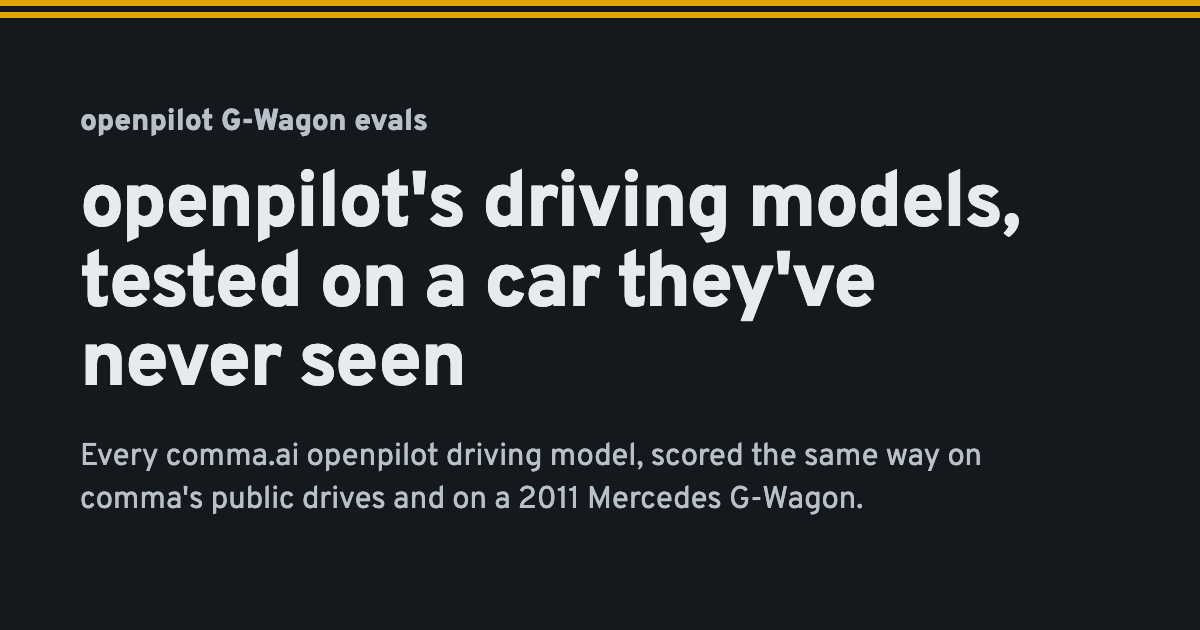
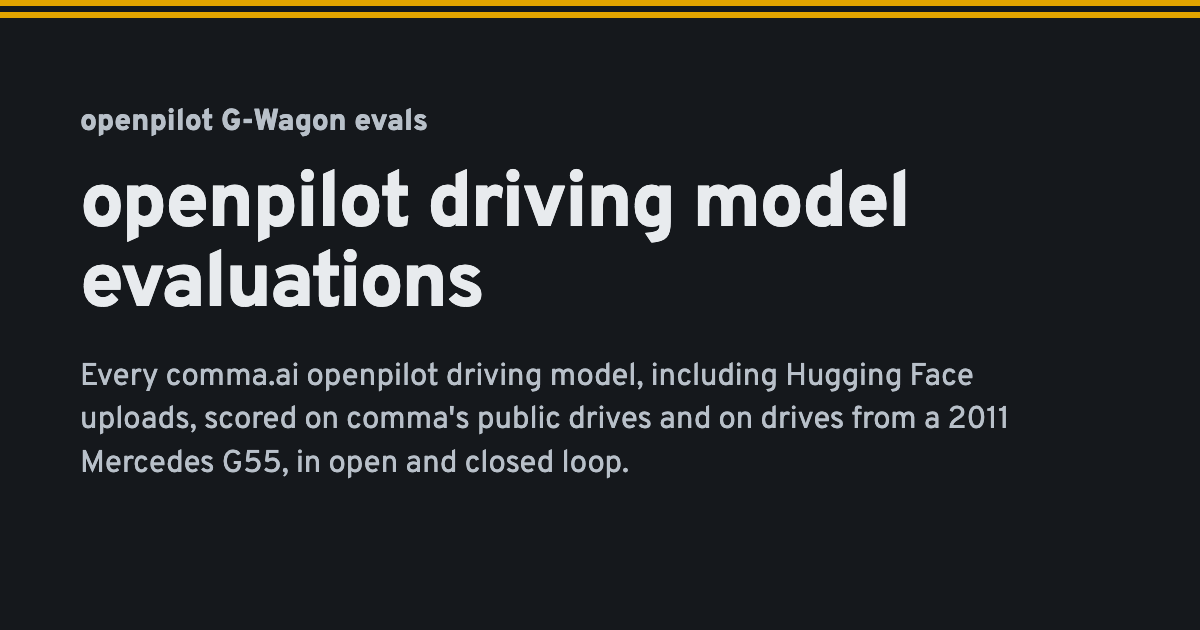
eval site: literal copy, measurements and numbers only
Title 'openpilot driving model evaluations'; the line under it states which models, on what data,
which tests and how often. Findings and per-model lines name the metric and the number (lateral
action rate, lateral lag, lateral error, longitudinal error, distance from path) with their unit
counts, no adjectives. The G55 is described by facts (W463, recirculating-ball steering, camera
1.45 m up, not supported by openpilot). Method page: the residual's effect stated as the deep
dive's measured numbers. Open Graph card re-rendered.

Changed region(s): [[0.0617, 0.5429, 0.8325, 0.8143], [0.0617, 0.2714, 0.8633, 0.5127]]

diff --git a/eval/site/pages/method.html b/eval/site/pages/method.html
@@ -26,7 +26,7 @@ drives stay private, so only their scores are published.</p>
 <td>Speed and lateral error against what the truck did, and lateral gain: the model's lateral action over the truck's actual lateral motion, where 1 is right.</td></tr>
 <tr><th scope="row">Truck, closed loop</th>
 <td>The truck windows, run through <code>worldmodel-4B</code> with the G55's measured steering response in place of the ideal car.</td>
-<td>Distance from the driven path at 2, 4 and 7.2 s, and how smooth the requested steering is. 18 windows from four drives,
+<td>Distance from the driven path at 2, 4 and 7.2 s, and the RMS lateral and longitudinal jerk of the requests. 18 windows from four drives,
 9 by day and 9 at night.</td></tr>
 <tr><th scope="row">Truck, recovery tests</th>
 <td>Closed loop after a disturbance: pushed 0.5 m sideways, or turned 2° off heading. A test behind a braking lead car is
@@ -55,8 +55,8 @@ fraction beside it counts the units where the model did better.</p>
 models; a dash means there is no interval. Each page shows dozens of these comparisons with no correction for multiple
 tests, so a delta whose interval only just excludes zero is weak evidence. Where one segment dominates a mean, the
 median beside it shows it.</p>
-<p>Two measures need care. The steering delay is the shift, searched from 0 to 1.5 s, at which the model's steering
-request best matches the car's own turning; a value at either end of the search is only a bound and is left out, so its
+<p>Two measures need care. The lateral lag is the shift, searched from 0 to 1.5 s, at which the model's lateral
+request best correlates with the car's measured lateral motion; a value at either end of the search is only a bound and is left out, so its
 count can be below the section's. The plan speed error at 3 s reads the model's plan output, which does not separate
 models built on one frozen base: it is identical for the four October models on base <code>f22e06e5</code>.</p>
 <p>Every public interval can be recomputed from the per-segment CSVs: <code>uv run python -m geval.reproduce</code> in
@@ -68,12 +68,13 @@ models built on one frozen base: it is identical for the four October models on 
 <p>Open loop asks whether the model's output matches what a human did on a recorded drive. The output never changes the
 next frame, so a model can copy the human closely and still drift once its own steering moves the car. Closed loop feeds
 the steering back through a world model, and small errors build up.</p>
-<p>The October 2026 runs show the two disagreeing. comma's recent models are a frozen base policy with a residual head
+<p>Measured in the 2026-10-27 deep dive, the two disagree. comma's recent models are a frozen base policy with a residual head
 trained by reinforcement learning on top. With the residual switched off, the base had the lowest open-loop lateral error
 of any model on comma's public segments (0.074 m/s², against lebowski's 0.109). In the first closed-loop run on nine truck
 windows (before the current eighteen), after a small yaw disturbance, the same base ended about 1.8 m from the driven path at 4 s. lebowski ended 0.4 m away, and
-a policy that does not steer at all 2.3 m. The residual smooths the action and delays it by a few tenths of a second.
-Open-loop scoring counts that delay as error, yet the residual is what lets these models hold a lane.</p>
+a policy that does not steer at all 2.3 m; the same models with their residual ended 1.2 to 1.3 m closer to the path than
+their base alone, in 9 of 9 windows. On comma's public segments the residual lowers the lateral action rate by 33 to 40%
+and moves the best-correlating lateral lag by +0.17 to +0.32 s; open-loop scoring counts that shift as error.</p>
 <p>This matches published work: on the nuPlan benchmark, open-loop and closed-loop planning scores were negatively
 correlated (<a href="https://doi.org/10.48550/arxiv.2306.07962">Dauner et al., 2023</a>). The site reports both kinds of
 score side by side and does not combine them.</p>

diff --git a/eval/site/og/og.html b/eval/site/og/og.html
@@ -14,6 +14,6 @@ p { font-size: 31px; line-height: 1.4; color: #b8c0c9; margin: 0; max-width: 100
 </style></head>
 <body><div class="line"></div><div class="in">
 <div class="site">openpilot G-Wagon evals</div>
-<h1>openpilot's driving models, tested on a car they've never seen</h1>
-<p>Every comma.ai openpilot driving model, scored the same way on comma's public drives and on a 2011 Mercedes G-Wagon.</p>
+<h1>openpilot driving model evaluations</h1>
+<p>Every comma.ai openpilot driving model, including Hugging Face uploads, scored on comma's public drives and on drives from a 2011 Mercedes G55, in open and closed loop.</p>
 </div></body></html>

diff --git a/eval/site/build.py b/eval/site/build.py
@@ -29,9 +29,9 @@ EVAL = SITE.parent
 SECTIONS = {
     "public_open_loop": "comma's public drives, open loop",
     "public_closed_loop": "comma's public drives, closed loop",
-    "truck_open_loop": "G-Wagon, open loop",
-    "truck_closed_loop": "G-Wagon, closed loop",
-    "truck_recovery": "G-Wagon, recovery tests",
+    "truck_open_loop": "G55, open loop",
+    "truck_closed_loop": "G55, closed loop",
+    "truck_recovery": "G55, recovery tests",
 }
 UNIT_WORD = {"segment": ("segment", "segments"), "window": ("window", "windows")}
 BETTER_TEXT = {"lower": "lower is better", "higher": "higher is better",
@@ -39,22 +39,18 @@ BETTER_TEXT = {"lower": "lower is better", "higher": "higher is better",
 MINUS = "−"
 # The three numbers every model has, in plain words (public open loop; lower is better on all three).
 KEY_METRICS = [
-    ("public_open_loop", "lat_rate_rms", "Steering roughness", "How fast the steering request changes (RMS)"),
-    ("public_open_loop", "lat_best_lag", "Steering delay", "How far the steering trails the car's own turning"),
-    ("public_open_loop", "lat_mae", "Tracking error", "Steering request against what the car did next"),
+    ("public_open_loop", "lat_rate_rms", "Lateral action rate", "RMS rate of change of the lateral request"),
+    ("public_open_loop", "lat_best_lag", "Lateral lag", "Shift at which the request best matches the car's turning"),
+    ("public_open_loop", "lat_mae", "Lateral error", "Request against the car's lateral motion that followed"),
 ]
 MORE_METRICS = [
-    ("public_closed_loop", "xtrack_4s", "Off the path in the world model, 4 s", "Median over segments, comma's ideal car"),
-    ("truck_closed_loop", "xtrack_4s", "G-Wagon off the path, 4 s", "Median over windows, G55 steering"),
-    ("truck_recovery", "offcentre_xtrack_4s", "G-Wagon after a 0.5 m push, 4 s", "Median over windows"),
+    ("public_closed_loop", "xtrack_4s", "Distance from path at 4 s, closed loop", "Median over segments, comma's ideal car"),
+    ("truck_closed_loop", "xtrack_4s", "G55 distance from path at 4 s", "Median over windows, G55 steering model"),
+    ("truck_recovery", "offcentre_xtrack_4s", "G55 at 4 s after a 0.5 m offset", "Median over windows"),
 ]
 # Plain names for the per-model verdict line: (better, worse).
-TERMS = {
-    "lat_rate_rms": ("smoother steering", "rougher steering"),
-    "lat_best_lag": ("less steering delay", "more steering delay"),
-    "lat_mae": ("lower tracking error", "higher tracking error"),
-    "lon_mae": ("lower acceleration error", "higher acceleration error"),
-}
+TERMS = {"lat_rate_rms": "lateral action rate", "lat_best_lag": "lateral lag", "lat_mae": "lateral error",
+         "lon_mae": "longitudinal error"}
 
 
 def esc(x) -> str:
@@ -304,7 +300,7 @@ def page(cfg: dict, title: str, desc: str, body: str, depth: int, current: str, 
 <meta property="og:image" content="{esc(og)}">
 <meta property="og:image:width" content="1200">
 <meta property="og:image:height" content="630">
-<meta property="og:image:alt" content="openpilot's driving models, tested on a car they've never seen">
+<meta property="og:image:alt" content="openpilot driving model evaluations">
 <meta name="twitter:card" content="summary_large_image">
 <meta name="twitter:title" content="{esc(title)}">
 <meta name="twitter:description" content="{esc(desc)}">
@@ -340,7 +336,7 @@ def page(cfg: dict, title: str, desc: str, body: str, depth: int, current: str, 
 # ---------------------------------------------------------------- the hero chart
 
 def hero_chart(models: list[dict], cfg: dict) -> str:
-    """Steering delay (x) against steering roughness (y), one dot per model, public open loop.
+    """Lateral lag (x) against lateral action rate (y), one dot per model, public open loop.
     Lower-left is better on both. The reference and the models config.json names are labelled."""
     ref = cfg["reference_model"]
     hl = cfg.get("hero", {}).get("highlight", [])  # [[model id, css class, label, "left" or "right"], ...]
@@ -372,10 +368,10 @@ def hero_chart(models: list[dict], cfg: dict) -> str:
                  f'<text class="tick" x="{L - 8}" y="{Y + 4:.1f}" text-anchor="end">{t:.1f}</text>')
         t += 0.1
     g.append(f'<text class="axis" x="{(L + W - R) / 2:.0f}" y="{H - 14}" text-anchor="middle">'
-             'Steering delay behind the car\'s own turning (s)</text>')
+             'Lateral lag (s)</text>')
     g.append(f'<text class="axis" transform="translate(16 {(T + H - B) / 2:.0f}) rotate(-90)" text-anchor="middle">'
-             'Steering roughness (m/s³)</text>')
-    g.append(f'<text class="better" x="{L + 10}" y="{H - B - 12}">Better: lower and further left</text>')
+             'Lateral action rate, RMS (m/s³)</text>')
+    g.append(f'<text class="better" x="{L + 10}" y="{H - B - 12}">Lower is better on both axes</text>')
     style = {h[0]: (h[1], h[2]) for h in hl}
     pos = {}
     dots, labels = [], []
@@ -384,8 +380,8 @@ def hero_chart(models: list[dict], cfg: dict) -> str:
         X, Y = px(x["value"]), py(y["value"])
         pos[mid] = (X, Y)
         cls = style.get(mid, ("other", None))[0]
-        tip = (f'{plain_name(m)}: delay {num(x["value"], 2)} s over {x["n"]} segments, '
-               f'roughness {num(y["value"], 2)} m/s³ over {y["n"]} segments')
+        tip = (f'{plain_name(m)}: lateral lag {num(x["value"], 2)} s over {x["n"]} segments, '
+               f'lateral action rate {num(y["value"], 2)} m/s³ over {y["n"]} segments')
         r = 7 if cls != "other" else 5.5
         dots.append(f'<circle class="dot d-{cls}" cx="{X:.1f}" cy="{Y:.1f}" r="{r}" tabindex="0" '
                     f'data-tip="{esc(tip)}" aria-label="{esc(tip)}"/>')
@@ -411,12 +407,12 @@ def hero_chart(models: list[dict], cfg: dict) -> str:
     return f"""<figure class="hero-fig">
 <p class="fig-t">{esc(cfg.get("hero", {}).get("title", ""))}</p>
 <div class="legend-row">{legend}</div>
-<svg class="scatter" viewBox="0 0 {W} {H}" role="img" aria-label="Scatter of steering delay against steering roughness for each scored model">
+<svg class="scatter" viewBox="0 0 {W} {H}" role="img" aria-label="Scatter of lateral lag against lateral action rate for each scored model">
 <defs><marker id="ah" viewBox="0 0 10 10" refX="8" refY="5" markerWidth="7" markerHeight="7" orient="auto-start-reverse"><path d="M0,0 L10,5 L0,10 z" class="ah"/></marker></defs>
 {''.join(g)}{arrow}{''.join(dots)}{''.join(labels)}
 </svg>
-<figcaption>Each dot is one comma model, scored on the same {n} public drive segments. Steering delay is the shift at which the model's steering request best matches the car's own turning; roughness is how fast that request changes.
-<details><summary>Numbers behind the chart</summary><div class="tw"><table><thead><tr><th scope="col">Model</th><th class="n" scope="col">Delay (s)</th><th class="n" scope="col">Roughness (m/s³)</th></tr></thead><tbody>{rows}</tbody></table></div></details>
+<figcaption>One dot per model; means over comma's public segments, open loop ({n} with movement; lag excludes values at the 0 and 1.5 s search limits). Lateral lag: the time shift at which the model's lateral request best correlates with the car's measured lateral motion. Lateral action rate: RMS rate of change of that request.
+<details><summary>Numbers behind the chart</summary><div class="tw"><table><thead><tr><th scope="col">Model</th><th class="n" scope="col">Lateral lag (s)</th><th class="n" scope="col">Lateral action rate (m/s³)</th></tr></thead><tbody>{rows}</tbody></table></div></details>
 </figcaption>
 </figure>"""
 
@@ -424,65 +420,66 @@ def hero_chart(models: list[dict], cfg: dict) -> str:
 # ---------------------------------------------------------------- per-model verdict and bars
 
 def verdict_line(m: dict, models: list[dict], cfg: dict) -> str:
-    """One readable sentence from the public open-loop numbers: smoothness and tracking against
-    lebowski, then every separated difference from the previous model. config.json "verdicts"
+    """What was measured and the number, from the public open-loop results: lateral action rate and
+    longitudinal error against lebowski where the interval excludes zero, lateral error either way,
+    then which metrics separate from the previous model, by direction. config.json "verdicts"
     {model id: text} replaces it."""
     over = cfg.get("verdicts", {}).get(m["model"]["id"])
     if over:
         return fill(over, models, EVAL)
     ref = cfg["reference_model"]
     idx = by_id(models)
+    sec = "public_open_loop"
     if m["model"]["id"] == ref:
-        lags = {o["model"]["id"]: find_metric(o, "public_open_loop", "lat_best_lag")[0] for o in models}
-        rough = {o["model"]["id"]: find_metric(o, "public_open_loop", "lat_rate_rms")[0] for o in models}
+        out = "Reference model; the G55 drives with it."
+        lags = [find_metric(o, sec, "lat_best_lag")[0] for o in models]
+        rates = [find_metric(o, sec, "lat_rate_rms")[0] for o in models]
+        me_l, me_r = find_metric(m, sec, "lat_best_lag")[0], find_metric(m, sec, "lat_rate_rms")[0]
         bits = []
-        if lags.get(ref) and all(x is None or x["value"] >= lags[ref]["value"] for x in lags.values()):
-            bits.append("the quickest steering response of all models here")
-        if rough.get(ref) and all(x is None or x["value"] <= rough[ref]["value"] for x in rough.values()):
-            bits.append("the roughest steering")
-        return "The model this G-Wagon drives with, and the reference for every comparison" + \
-               (f": {join_words(bits)}." if bits else ".")
+        if me_r and all(x is None or x["value"] <= me_r["value"] for x in rates):
+            bits.append("highest lateral action rate")
+        if me_l and all(x is None or x["value"] >= me_l["value"] for x in lags):
+            bits.append("lowest lateral lag")
+        if bits:
+            t = join_words(bits)
+            out += " " + t[0].upper() + t[1:] + " of the models scored."
+        return out
+
+    def pct_vs_ref(key):
+        x, _ = find_metric(m, sec, key)
+        p = x and x["paired"].get(ref)
+        if not p:
+            return None, None, None
+        base = find_metric(idx[ref], sec, key)[0]["value"]
+        return verdict_of(x, p), 100 * p["delta"] / base, p["n"]
+
+    parts, n = [], None
+    for key, always in (("lat_rate_rms", False), ("lat_mae", True), ("lon_mae", False)):
+        v, pc, nn = pct_vs_ref(key)
+        if v is None or (not always and v not in ("better", "worse")):
+            continue
+        n = n or nn
+        if v == "tie":
+            parts.append(f"{TERMS[key]} not separated")
+        else:
+            parts.append(f"{TERMS[key]} {round(abs(pc))}% {'lower' if pc < 0 else 'higher'}")
     out = []
-    r, _ = find_metric(m, "public_open_loop", "lat_rate_rms")
-    e, _ = find_metric(m, "public_open_loop", "lat_mae")
-    clauses = []
-    if r and ref in r["paired"] and verdict_of(r, r["paired"][ref]) == "better":
-        base = find_metric(idx[ref], "public_open_loop", "lat_rate_rms")[0]["value"]
-        clauses.append(f'{round(-100 * r["paired"][ref]["delta"] / base)}% smoother steering than lebowski')
-    if e and ref in e["paired"]:
-        v = verdict_of(e, e["paired"][ref])
-        base = find_metric(idx[ref], "public_open_loop", "lat_mae")[0]["value"]
-        pc = round(100 * abs(e["paired"][ref]["delta"]) / base)
-        if v == "worse":
-            clauses.append(f"{pc}% more tracking error")
-        elif v == "better":
-            clauses.append(f"{pc}% less tracking error")
-        elif v == "tie":
-            clauses.append("about the same tracking error")
-    a, _ = find_metric(m, "public_open_loop", "lon_mae")
-    if a and ref in a["paired"] and verdict_of(a, a["paired"][ref]) in ("better", "worse"):
-        base = find_metric(idx[ref], "public_open_loop", "lon_mae")[0]["value"]
-        pc = round(100 * abs(a["paired"][ref]["delta"]) / base)
-        clauses.append(f'{pc}% {"more" if a["paired"][ref]["delta"] > 0 else "less"} acceleration error')
-    if clauses:
-        out.append(clauses[0][0].upper() + clauses[0][1:] + (", with " + join_words(clauses[1:]) if clauses[1:] else "") + ".")
+    if parts:
+        t = join_words(parts)
+        out.append(t[0].upper() + t[1:] + f" than lebowski ({n} segments).")
     prev = previous_of(m, ref)
     if prev and prev in idx:
-        better, worse = [], []
-        for k, (tb, tw) in TERMS.items():
-            x, _ = find_metric(m, "public_open_loop", k)
+        lower, higher = [], []
+        for k, term in TERMS.items():
+            x, _ = find_metric(m, sec, k)
             p = x and x["paired"].get(prev)
-            if not p:
-                continue
-            v = verdict_of(x, p)
-            (better if v == "better" else worse if v == "worse" else []).append(tb if v == "better" else tw)
+            if p and verdict_of(x, p) in ("better", "worse"):
+                (lower if p["delta"] < 0 else higher).append(term)
         pn = short_name(idx[prev])
-        if better or worse:
-            out.append(f"Against {pn}: " + join_words(better + worse) + ".")
-        else:
-            out.append(f"No clear difference from {pn}.")
+        bits = ([f"lower {join_words(lower)}"] if lower else []) + ([f"higher {join_words(higher)}"] if higher else [])
+        out.append(f"Against {pn}: " + "; ".join(bits) + "." if bits else f"No metric separates from {pn}.")
     if m["model"]["id"] == "96244b1f_12800":
-        out.append("Scored without its navigation inputs.")
+        out.append("Navigation inputs fed zeros.")
     return " ".join(out)
 
 
@@ -532,8 +529,8 @@ def model_list(models: list[dict], cfg: dict) -> str:
             f'<p class="m-st"><span class="m-date">{esc(first_public(m))}</span> {esc(status_text(m))}</p></div>'
             f'<p class="m-v">{esc(verdict_line(m, models, cfg))}</p>'
             f'<div class="m-bars">{bars(m, models, cfg, KEY_METRICS, scales, True)}</div></li>')
-    head = ('<div class="mlist-head" aria-hidden="true"><span>Model</span><span>In one line</span>'
-            '<span>On comma\'s public drives; lower is better, the tick is lebowski</span></div>')
+    head = ('<div class="mlist-head" aria-hidden="true"><span>Model</span><span>Summary</span>'
+            '<span>comma\'s public segments, open loop; lower is better; tick = lebowski</span></div>')
     return f'{head}<ol class="mlist" reversed>{"".join(rows)}</ol>'
 
 
@@ -574,7 +571,7 @@ def summary_table(models, cfg) -> str:
             cells.append(f'<td class="n">{inner}</td>')
         body.append(f'<tr><th scope="row">{name_html(m, "models/" + m["model"]["id"] + ".html")}</th>{"".join(cells)}</tr>')
     return (f'<div class="tw"><table class="sum"><caption>Mean with its 95% interval, then the paired difference from lebowski '
-            f'on the units both have. The G-Wagon sections come from four drives or fewer and carry no interval.</caption>'
+            f'on the units both have. The G55 sections come from four drives or fewer and carry no interval.</caption>'
             f'<thead><tr><th scope="col">Model</th>{th}</tr></thead><tbody>{"".join(body)}</tbody></table></div>')
 
 
@@ -620,37 +617,37 @@ def overview(models, cfg, root) -> str:
                            f'{esc(landed(mm))}.')
     return f"""<section class="hero">
 <div class="hero-t">
-<h1>openpilot's driving models, tested on a car they've never seen</h1>
-<p class="lede">Every comma.ai openpilot driving model, scored the same way on comma's public drives and on a 2011 Mercedes G-Wagon. New models are scored within a day of release.</p>
+<h1>openpilot driving model evaluations</h1>
+<p class="lede">Every comma.ai openpilot driving model, including Hugging Face uploads, scored with one fixed suite on comma's public drives and on drives from a 2011 Mercedes G55, in open loop and in closed loop. Each new model is scored within a day of its release.</p>
 <p class="newest">Newest scored: {name_html(newest, "models/" + newest["model"]["id"] + ".html")}, first public {esc(first_public(newest))} ({esc(lc_status(newest))}).{master_line} <a href="#models">All models</a></p>
 </div>
 {hero_chart(models, cfg)}
 </section>
 
 <section id="found" class="found">
-<h2>What we found</h2>
-<p class="asof">Measured by this suite, as of {esc(cfg.get("findings_date", ""))}. lebowski is the July 2026 model this G-Wagon drives with; every other model is compared with it.</p>
+<h2>Results</h2>
+<p class="asof">Measured by this suite, as of {esc(cfg.get("findings_date", ""))}. The reference is lebowski (877M parameters, July 2026), the model the G55 drives with.</p>
 <ul class="findings">{findings}</ul>
 </section>
 
 <section id="models">
 <h2>The models</h2>
-<p class="sub">Newest first, by the date the weights were first public. Each one links to its full scores.</p>
+<p class="sub">Newest first, by the date the weights were first public. Each links to its full scores.</p>
 {model_list(models, cfg)}
 </section>
 
 <section id="how" class="prose">
 <h2>How it works</h2>
 <div class="how">
-<div><h3>Open loop</h3><p>The model watches recorded video, and its steering and speed requests are compared with what the car did next.</p></div>
-<div><h3>Closed loop</h3><p>The model drives. comma's public world model, <code>worldmodel-4B</code>, draws each next camera frame from the model's own steering, so mistakes build up as they would on a road.</p></div>
-<div><h3>Why a G-Wagon</h3><p>It is a tall, heavy 2011 Mercedes G55 with slow recirculating-ball steering. openpilot does not support it, so no openpilot model has learned from its data. Scores on it show how a model copes with a car it has never seen.</p></div>
+<div><h3>Open loop</h3><p>The model runs on recorded camera frames. Its lateral and longitudinal requests are compared with the car's measured motion that followed.</p></div>
+<div><h3>Closed loop</h3><p>The model's requests move a simulated car, and comma's public world model, <code>worldmodel-4B</code>, generates the next camera frame from the new position, 7.2 s per episode. Scored as distance from the recorded path.</p></div>
+<div><h3>The G55</h3><p>A 2011 Mercedes G55 (W463) with recirculating-ball steering and the camera 1.45 m above the road. openpilot does not support it, so its drives are not in comma's training data. Its closed loop uses a model of the G55's steering and powertrain in place of comma's ideal car.</p></div>
 </div>
-<p>comma publishes its own test reports in <a href="https://commaai.github.io/model_reports/">model_reports</a>; the newest there is Cinque v3, from 2026-09-18. The tests here line up with theirs where they can:</p>
+<p>comma publishes its own test reports in <a href="https://commaai.github.io/model_reports/">model_reports</a>; the newest there is Cinque v3, from 2026-09-18. Nearest equivalents:</p>
 <div class="tw"><table class="vocab"><thead><tr><th scope="col">Here</th><th scope="col">Nearest test in comma's model_reports</th></tr></thead><tbody>
-<tr><th scope="row">Steering roughness, open loop</th><td>jitter</td></tr>
-<tr><th scope="row">Off the path in the world model, comma's ideal car</th><td>MLSim lateral (<code>analyse_lat_mlsim</code>), their world model as the simulator</td></tr>
-<tr><th scope="row">G-Wagon recovery: pushed 0.5 m sideways or 2° off heading</th><td>no direct match; closest is hugging, recovery under a lateral bias</td></tr>
+<tr><th scope="row">Lateral action rate, open loop</th><td>jitter</td></tr>
+<tr><th scope="row">Distance from path, closed loop, comma's ideal car</th><td>MLSim lateral (<code>analyse_lat_mlsim</code>), their world model as the simulator</td></tr>
+<tr><th scope="row">G55 recovery: 0.5 m lateral offset or 2° heading error</th><td>no direct match; closest is hugging, recovery under a lateral bias</td></tr>
 <tr><th scope="row">Braking lead car (not built yet)</th><td>unintended lead following</td></tr>
 </tbody></table></div>
 <p><a href="method.html">The full method</a></p>
@@ -659,10 +656,10 @@ def overview(models, cfg, root) -> str:
 <section id="research" class="research">
 <h2>For researchers</h2>
 <ul class="plain">
-<li>Every number is a mean over units: a 60 s segment of a public drive, or a window of a G-Wagon drive. Units are grouped by the drive they come from, and the 95% intervals resample whole drives. Below 10 drives there is no interval, so the G-Wagon sections report means and win counts only.</li>
+<li>Every number is a mean over units: a 60 s segment of a public drive, or a window of a G55 drive. Units are grouped by the drive they come from, and the 95% intervals resample whole drives. Below 10 drives there is no interval, so the G55 sections report means and win counts only.</li>
 <li>A paired difference compares two models on the units both were scored on; the count beside it is the units where the model did better.</li>
 <li>Per-segment CSVs, one results file per model (<a href="{esc(cfg['repo_url'])}/blob/main/eval/SCHEMA.md">schema</a>) and the code are public; <code>python -m geval.reproduce</code> recomputes every public interval from the CSVs. <a href="method.html#downloads">Downloads</a></li>
-<li>The G-Wagon drives stay private; their scores are published, not the frames.</li>
+<li>The G55 drives stay private; their scores are published, not the frames.</li>
 </ul>
 {legend()}
 {summary_table(models, cfg)}
@@ -775,7 +772,7 @@ def method(models, cfg) -> str:
                     f'<td>{", ".join(csvs) or "none"}</td></tr>')
     table = ('<section id="downloads" class="prose"><h2>Downloads</h2><p>One results file per model, in the format described in '
              f'<a href="{esc(cfg["repo_url"])}/blob/main/eval/SCHEMA.md">SCHEMA.md</a>, and one CSV per public section with a row per segment. '
-             'G-Wagon sections publish scores only.</p>'
+             'G55 sections publish scores only.</p>'
              '<div class="tw"><table><thead><tr><th scope="col">Model</th><th scope="col">Results</th><th scope="col">Per-segment CSVs</th></tr></thead>'
              f'<tbody>{"".join(rows)}</tbody></table></div></section>')
     return prose + table
@@ -806,11 +803,11 @@ def main() -> None:
         (out / "models" / f"{mid}.html").write_text(
             page(cfg, f"{plain_name(m)} – {tag}", f"{plain_name(m)}: {status_text(m)}. {verdict_line(m, models, cfg)}",
                  model_page(m, models, cfg, root, out), 1, "model", f"models/{mid}.html"))
-    desc = ("Every comma.ai openpilot driving model, scored the same way on comma's public drives and on a "
-            "2011 Mercedes G-Wagon, within a day of release.")
-    (out / "index.html").write_text(page(cfg, f"{cfg['site_name']}: openpilot's driving models, tested on a car they've never seen",
+    desc = ("Every comma.ai openpilot driving model, including Hugging Face uploads, scored on comma's public drives "
+            "and on drives from a 2011 Mercedes G55, in open and closed loop, within a day of release.")
+    (out / "index.html").write_text(page(cfg, f"openpilot driving model evaluations – {cfg['site_name']}",
                                          desc, overview(models, cfg, root), 0, "overview", ""))
-    (out / "method.html").write_text(page(cfg, f"Method – {cfg['site_name']}", "How the openpilot G-Wagon evals score each model: "
+    (out / "method.html").write_text(page(cfg, f"Method – {cfg['site_name']}", "How each openpilot driving model is scored: "
                                           "open and closed loop, intervals, limits and downloads.", method(models, cfg), 0, "method", "method.html"))
     print(f"{len(models)} models -> {out}")
 
